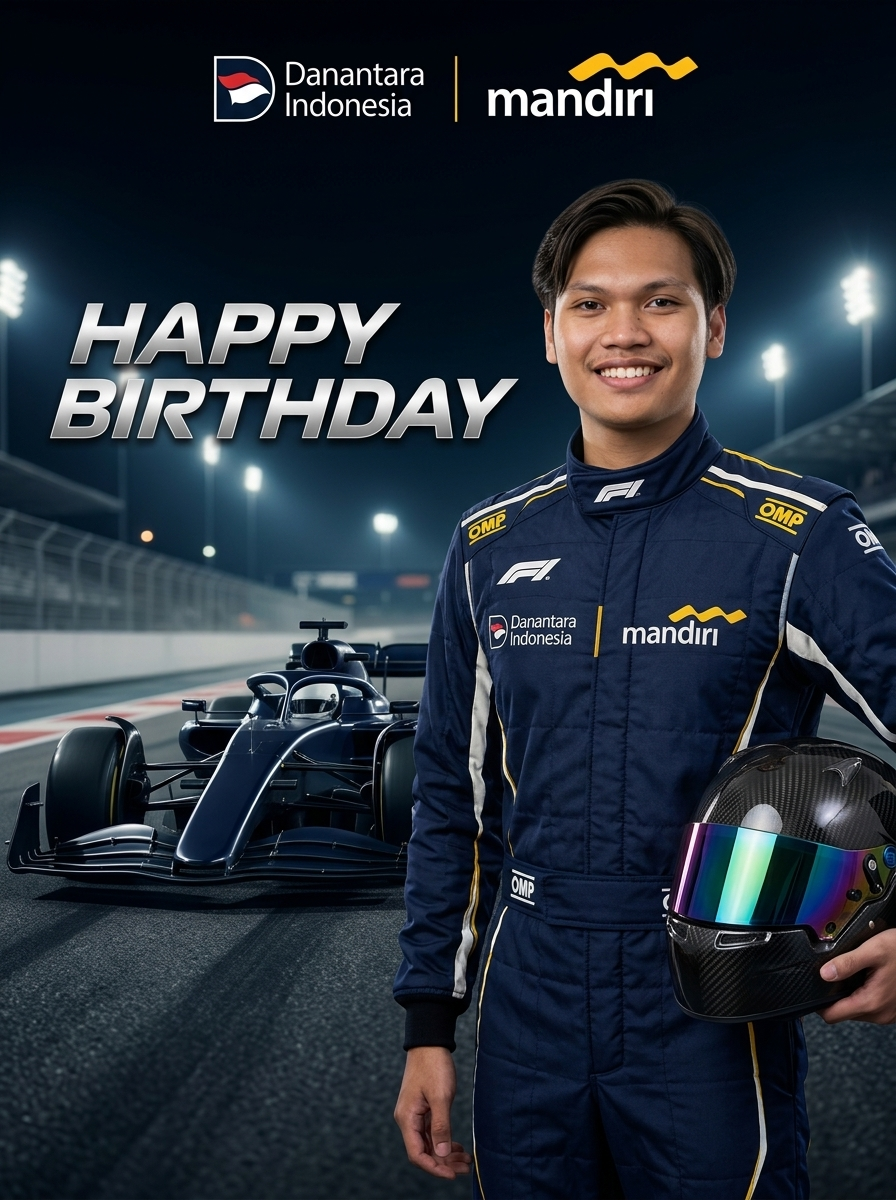
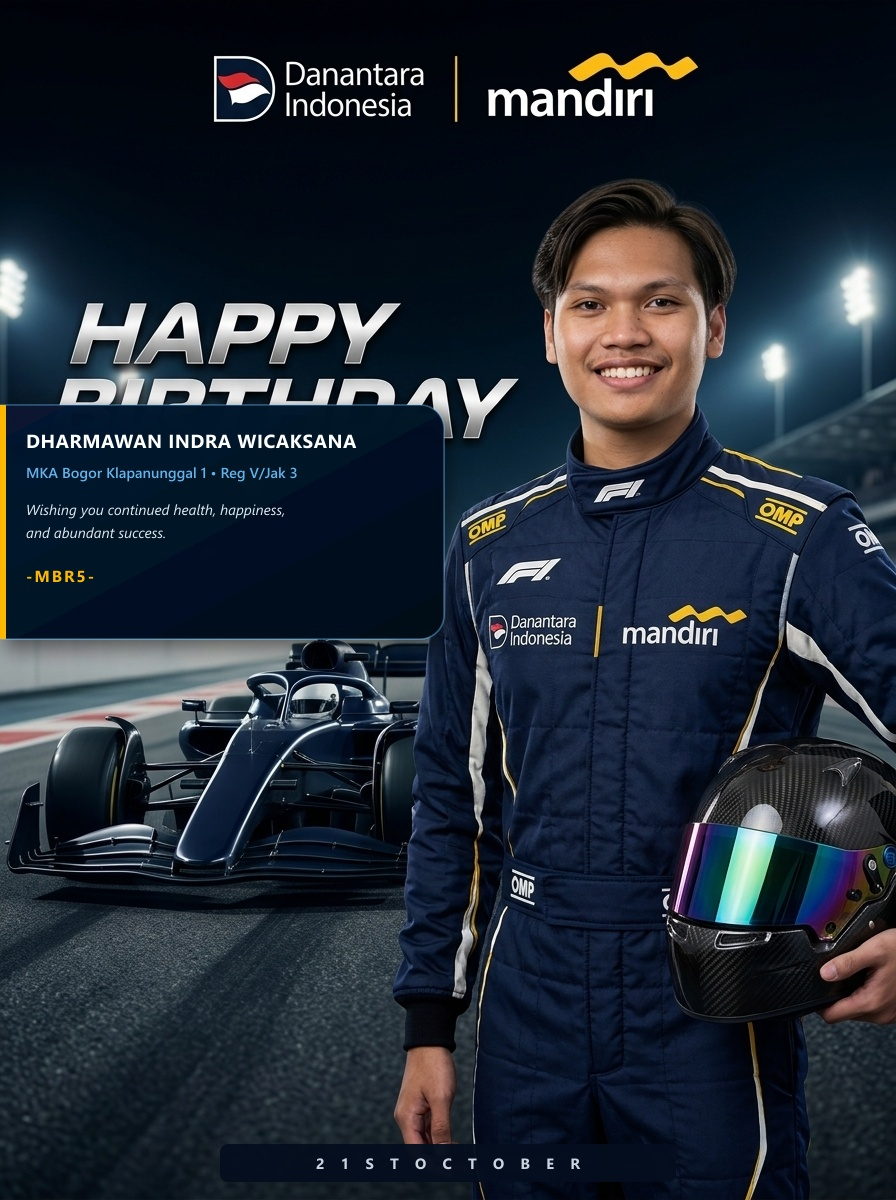
feat: generate 5 kartu ulang tahun tema F1 teks bahasa Inggris dengan signature -MBR5-

diff --git a/public/app.js b/public/app.js
@@ -1504,15 +1504,15 @@ function downloadF1Card() {
 }
 
 function copyF1WhatsAppText() {
-  const nama = (state.f1Studio && state.f1Studio.nama) ? state.f1Studio.nama : 'Rekan';
+  const nama = (state.f1Studio && state.f1Studio.nama) ? state.f1Studio.nama : 'Colleague';
   const jabatan = (state.f1Studio && state.f1Studio.jabatan) ? state.f1Studio.jabatan : 'Micro Banking';
   
-  const text = `✨ *SELAMAT ULANG TAHUN* ✨\n\nKepada Yth. Bapak/Ibu *\u202A${nama}*\n(${jabatan} - Micro Banking Reg V/Jakarta 3)\n\nSemoga senantiasa diberikan kesehatan, kebahagiaan, kelancaran rezeki, serta kesuksesan yang berkelanjutan dalam karir dan kehidupan keluarga.\n\nTerima kasih atas dedikasi dan kontribusi terbaik bagi Bank Mandiri.\n\n*Semoga Hari Anda Luar Biasa!* 🏎🏁\n\n_Salam hangat,_\n*Keluarga Besar Micro Banking Region V / Jakarta 3*`;
+  const text = `✨ *HAPPY BIRTHDAY* ✨\n\nDear *\u202A${nama}*\n(${jabatan} • Micro Banking Region V / Jakarta 3)\n\nWishing you continued health, happiness, and abundant success in your career and life.\n\nThank you for your dedicated service and outstanding contribution to Bank Mandiri.\n\n-MBR5-\n\n🏎🏁 *Danantara x Mandiri F1 Official Edition*`;
 
   navigator.clipboard.writeText(text).then(() => {
-    showToast("Pesan ucapan WhatsApp berhasil disalin ke clipboard!", "success");
+    showToast("English birthday message copied to clipboard!", "success");
   }).catch(() => {
-    showToast("Gagal menyalin pesan", "error");
+    showToast("Failed to copy message", "error");
   });
 }
 

diff --git a/public/index.html b/public/index.html
@@ -480,6 +480,6 @@
   <!-- Toast Notification Container -->
   <div class="toast-container" id="toastContainer"></div>
 
-  <script src="app.js?v=20261018_clean_hd_card_viewer"></script>
+  <script src="app.js?v=20261018_mbr5_english_cards"></script>
 </body>
 </html>
